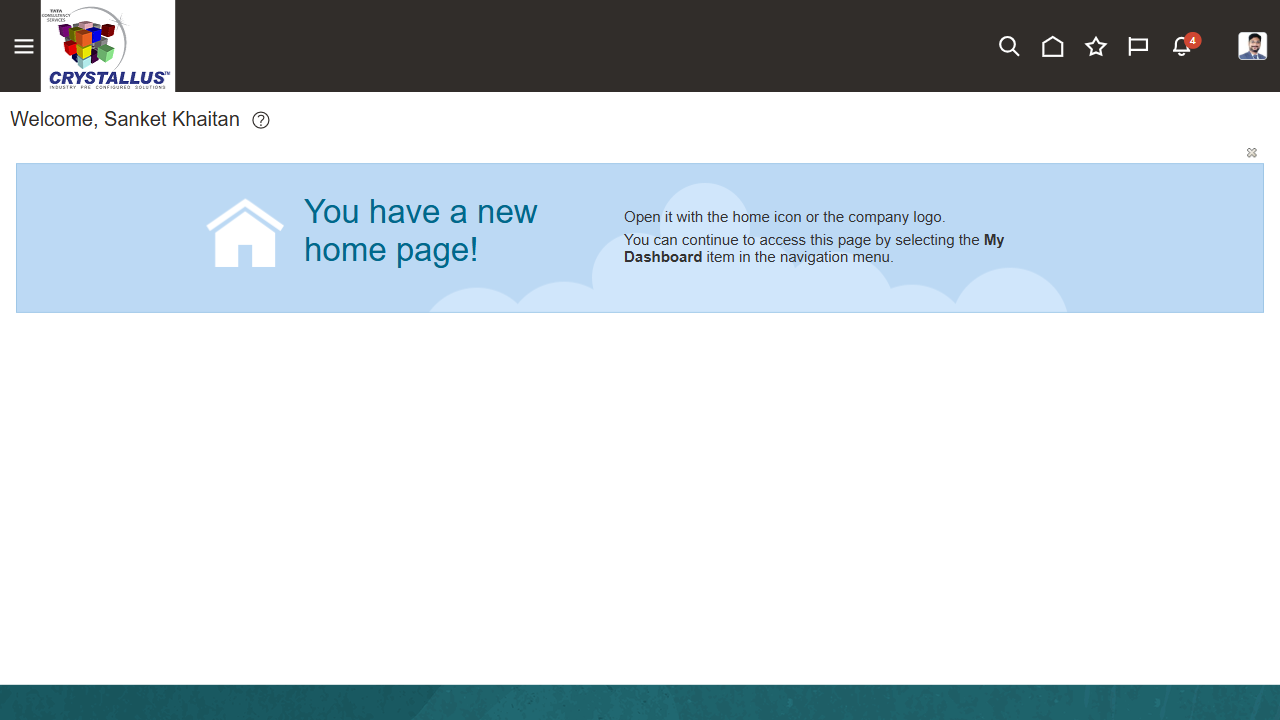
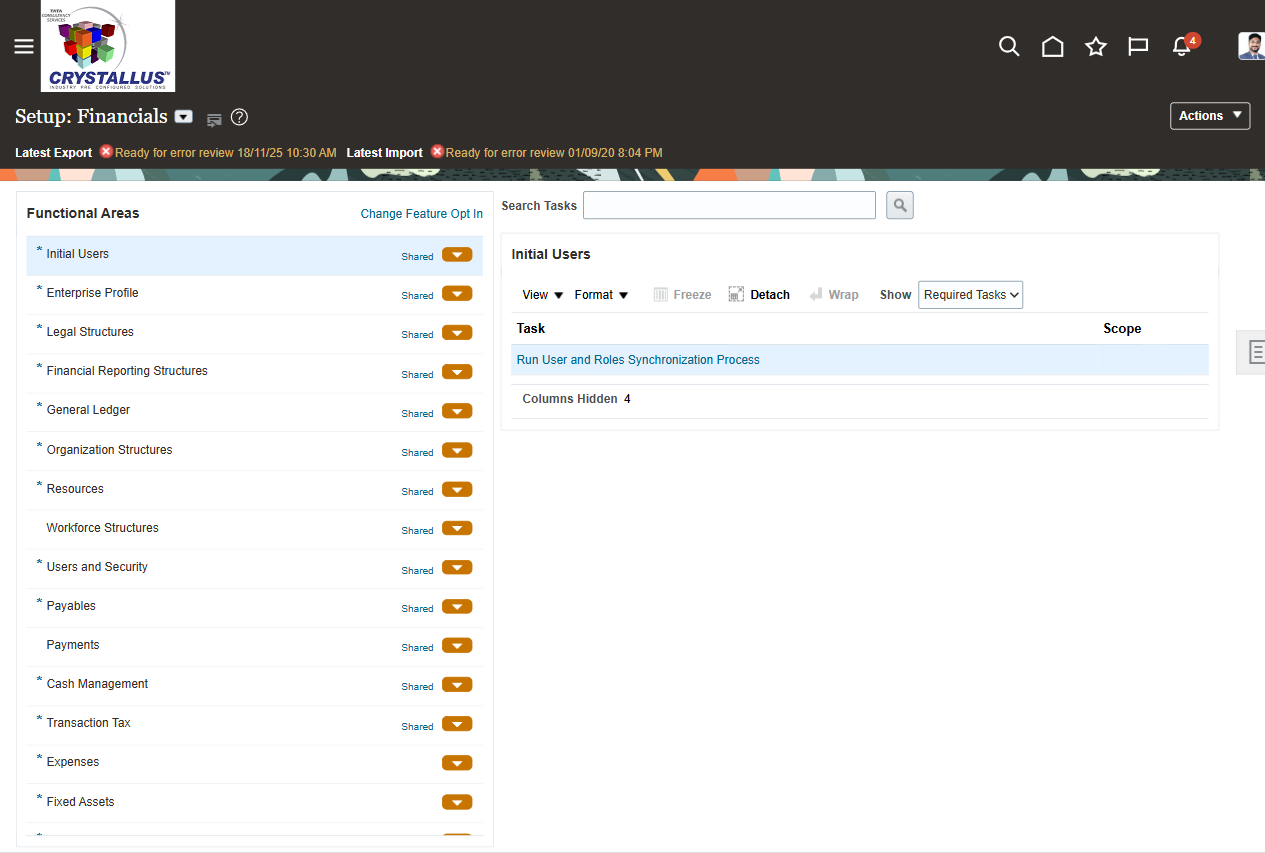
Till SM page is opening

diff --git a/apps/oracle-fusion/src/actionHandlers.js b/apps/oracle-fusion/src/actionHandlers.js
@@ -1,58 +1,12 @@
-const { goToSetupAndMaintenance, openTaskBySearch } = require("./navigation/setup-maintenance.nav");
-const { parseExcelSheet } = require("./config/excel.generic");
+const coreActions = require("./actions/core.actions");
+const fusionNav = require("./actions/fusion/navigation.actions");
+const fusionGeneric = require("./actions/fusion/generic.actions");
 
-function buildHandlers(core) {
+function buildHandlers() {
   return {
-    "core.log": async (ctx, { level = "info", message = "" }) => {
-      ctx.logger[level]?.(message) ?? ctx.logger.info(message);
-    },
-
-    "fusion.login": async (ctx) => {
-      // Keep your redirect-aware login implementation here
-      // Minimal placeholder: just navigate to ERP_URL for now
-      await ctx.page.goto(ctx.env.ERP_URL, { waitUntil: "domcontentloaded" });
-      ctx.logger.info("Fusion login step executed (placeholder).");
-    },
-
-    "fusion.goToSetupAndMaintenance": async (ctx) => {
-      await goToSetupAndMaintenance(ctx.page);
-      ctx.logger.info("Reached Setup and Maintenance.");
-    },
-
-    "fusion.openTask": async (ctx, { taskName }) => {
-      await openTaskBySearch(ctx.page, taskName);
-      ctx.logger.info(`Opened task: ${taskName}`);
-    },
-
-    "fusion.loadExcelRows": async (ctx, { sheet, map, required }) => {
-      ctx.rows = parseExcelSheet(ctx.env.AXIOM_EXCEL_PATH, sheet, map, required);
-      ctx.logger.info(`Loaded ${ctx.rows.length} rows from Excel sheet "${sheet}".`);
-    },
-
-    "fusion.paymentTerms.create": async (ctx, { row }) => {
-      // call your Payables Payment Terms implementation
-      // (you can keep it here or in a separate module)
-      const page = ctx.page;
-
-      // Click Create
-      const createBtn = page.getByRole("button", { name: /create|add|\+/i }).first();
-      await createBtn.click();
-
-      await page.waitForTimeout(1200);
-
-      await page.getByLabel(/name/i).fill(row.TermName).catch(async () => {
-        await page.locator('input[type="text"]').first().fill(row.TermName);
-      });
-
-      if (row.Description) await page.getByLabel(/description/i).fill(row.Description).catch(() => {});
-      if (row.DueDays) await page.getByLabel(/due.*days/i).fill(String(row.DueDays)).catch(() => {});
-
-      const saveBtn = page.getByRole("button", { name: /save/i }).first();
-      await saveBtn.click();
-      await page.waitForTimeout(2500);
-
-      ctx.logger.info(`Created Payment Term: ${row.TermName}`);
-    },
+    ...coreActions,
+    ...fusionNav,
+    ...fusionGeneric,
   };
 }
 

diff --git a/apps/oracle-fusion/src/workflows/genericForm.workflow.js b/apps/oracle-fusion/src/workflows/genericForm.workflow.js
@@ -1,0 +1,75 @@
+async function clickByRoleRegex(page, role, nameRegex) {
+  const re = new RegExp(nameRegex, "i");
+  const el = page.getByRole(role, { name: re }).first();
+  if (!(await el.isVisible().catch(() => false))) {
+    throw new Error(`Could not find ${role} with nameRegex="${nameRegex}"`);
+  }
+  await el.click();
+}
+
+async function fillByLabelRegex(page, labelRegex, value) {
+  const v = value === undefined || value === null ? "" : String(value);
+  if (!v.trim()) return;
+
+  const re = new RegExp(labelRegex, "i");
+  const ok = await page.getByLabel(re).fill(v).then(() => true).catch(() => false);
+  if (!ok) throw new Error(`Could not fill field by labelRegex="${labelRegex}"`);
+}
+
+async function fillByCss(page, selector, value) {
+  const v = value === undefined || value === null ? "" : String(value);
+  if (!v.trim()) return;
+
+  const el = page.locator(selector).first();
+  if (!(await el.isVisible().catch(() => false))) {
+    throw new Error(`CSS selector not visible: ${selector}`);
+  }
+  await el.fill(v);
+}
+
+async function fillField(page, fillSpec, value) {
+  if (!fillSpec) throw new Error("Missing fill spec in JSON ui.fields[].fill");
+
+  if (fillSpec.type === "label") {
+    return fillByLabelRegex(page, fillSpec.labelRegex, value);
+  }
+  if (fillSpec.type === "css") {
+    return fillByCss(page, fillSpec.selector, value);
+  }
+  throw new Error(`Unknown fill spec type: ${fillSpec.type}`);
+}
+
+async function createRecord(page, logger, row, ui) {
+  logger.info("Creating record (generic form)");
+
+  if (!ui?.createButton || !ui?.saveButton) {
+    throw new Error("ui.createButton and ui.saveButton are required in flow JSON params.ui");
+  }
+
+  // Create
+  if (ui.createButton.type === "role") {
+    await clickByRoleRegex(page, ui.createButton.role, ui.createButton.nameRegex);
+  } else {
+    throw new Error(`Unsupported createButton.type: ${ui.createButton.type}`);
+  }
+
+  await page.waitForTimeout(1500);
+
+  // Fill fields (driven by JSON)
+  for (const f of ui.fields || []) {
+    const value = row[f.key];
+    await fillField(page, f.fill, value);
+  }
+
+  // Save
+  if (ui.saveButton.type === "role") {
+    await clickByRoleRegex(page, ui.saveButton.role, ui.saveButton.nameRegex);
+  } else {
+    throw new Error(`Unsupported saveButton.type: ${ui.saveButton.type}`);
+  }
+
+  await page.waitForTimeout(4000);
+  logger.info("Record saved (generic form)");
+}
+
+module.exports = { createRecord };

diff --git a/apps/oracle-fusion/src/actions/fusion/navigation.actions.js b/apps/oracle-fusion/src/actions/fusion/navigation.actions.js
@@ -1,16 +1,24 @@
-const { loginFusion } = require("../../navigation/login.nav");
+require("dotenv").config();
+
+const { parseExcelSheet } = require("../../config/excel.generic");
+
+const { login } = require("../../navigation/login.nav");
 const { openSetupAndMaintenance } = require("../../navigation/setupMaintenance.nav");
 const { openTask } = require("../../navigation/task.nav");
-const { parseExcelSheet } = require("../../config/excel.generic");
+
+const URL = process.env.ERP_URL
+const USERNAME = process.env.ERP_USERNAME
+const PASSWORD = process.env.ERP_PASSWORD
 
 module.exports = {
   "fusion.login": async (ctx) => {
-    await loginFusion(ctx.page, ctx.logger, ctx.env);
+    //await login(ctx.page, ctx.logger, ctx.env);
+	ctx.logger.info(`ERP_URL=${URL} and USERNAME=${USERNAME}`);
+	await login(ctx.page, ctx.logger, URL, USERNAME, PASSWORD);
   },
 
   "fusion.openSetupAndMaintenance": async (ctx) => {
     await openSetupAndMaintenance(ctx.page, ctx.logger);
-    await ctx.page.screenshot({ path: "04_setup_and_maintenance.png", fullPage: true });
   },
 
   "fusion.openTask": async (ctx, { taskName }) => {

diff --git a/apps/oracle-fusion/src/config/excel.generic.js b/apps/oracle-fusion/src/config/excel.generic.js
@@ -3,21 +3,19 @@ const xlsx = require("xlsx");
 function parseExcelSheet(filePath, sheetName, map, requiredKeys = []) {
   const wb = xlsx.readFile(filePath);
   const ws = wb.Sheets[sheetName];
-  if (!ws) throw new Error(`Sheet "${sheetName}" not found in ${filePath}`);
+  if (!ws) {
+	  throw new Error(`Sheet "${sheetName}" not found in ${filePath}`);
+  }
 
   const raw = xlsx.utils.sheet_to_json(ws, { defval: "" });
 
   const rows = raw.map((r) => {
     const out = {};
-    for (const [excelCol, key] of Object.entries(map || {})) out[key] = r[excelCol];
-
+    for (const [excelCol, key] of Object.entries(map || {})) {
+      out[key] = r[excelCol];
+    }
+    // normalize Action only (generic)
     //out.Action = String(out.Action || "CREATE").trim().toUpperCase();
-    //out.TermName = String(out.TermName || "").trim();
-    //out.Description = String(out.Description || "").trim();
-
-    //if (out.DueDays !== "" && out.DueDays != null) {
-	//	out.DueDays = Number(out.DueDays);
-	//}
     return out;
   });
 

diff --git a/apps/oracle-fusion/src/index.js b/apps/oracle-fusion/src/index.js
@@ -10,8 +10,9 @@ const { buildHandlers } = require("./actionHandlers");
 
   const moduleName = process.env.AXIOM_MODULE;
   const submoduleName = process.env.AXIOM_SUBMODULE;
-
-  if (!moduleName || !submoduleName) throw new Error("AXIOM_MODULE and AXIOM_SUBMODULE are required");
+  
+  console.log("AXIOM_MODULE=", process.env.AXIOM_MODULE);
+  console.log("AXIOM_SUBMODULE=", process.env.AXIOM_SUBMODULE);
 
   const flowPath = getFlowPath(moduleName, submoduleName);
   if (!flowPath) throw new Error(`No flow registered for ${moduleName} / ${submoduleName}`);

diff --git a/apps/oracle-fusion/src/navigation/login.nav.js b/apps/oracle-fusion/src/navigation/login.nav.js
@@ -1,7 +1,7 @@
 require("dotenv").config();
 const KEEP_OPEN = process.env.AXIOM_KEEP_OPEN === "1";
 
-async function loginFusion(page, logger, { url, username, password }) {
+async function login(page, logger,  url, username, password ) {
   // Put your working login logic here (you already have it working)
   await page.goto(url, { waitUntil: "domcontentloaded" });
   await page.waitForLoadState("domcontentloaded");

diff --git a/apps/oracle-fusion/src/actions/fusion/generic.actions.js b/apps/oracle-fusion/src/actions/fusion/generic.actions.js
@@ -1,0 +1,7 @@
+const { createRecord } = require("../../workflows/genericForm.workflow");
+
+module.exports = {
+  "fusion.generic.createRecord": async (ctx, { row, ui }) => {
+    await createRecord(ctx.page, ctx.logger, row, ui);
+  },
+};
